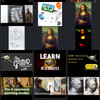
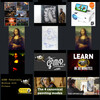
New Revisions

diff --git a/westland-warrior-the-artist/cache/print.html b/westland-warrior-the-artist/cache/print.html
@@ -1,3 +1,6 @@
+<div class="section yt avoid-break-inside" style="padding-bottom: 2rem;">
+  <span>Drew Struzan - Tracing<sup>[1]</sup></span>
+</div>
 <div class="section avoid-break-inside" style="padding-bottom: 2rem;">
   <header>
     <h2>Quote by Frida Kahlo</h2>
@@ -5,7 +8,7 @@
   <blockquote>
     <p>I never paint dreams or nightmares. I paint my own reality.</p>
     <footer>
-      <cite title="Frida Kahlo"><span>Frida Kahlo<sup>[1]</sup></span></cite>
+      <cite title="Frida Kahlo"><span>Frida Kahlo<sup>[2]</sup></span></cite>
     </footer>
   </blockquote>
 </div>
@@ -17,7 +20,7 @@
   <div class="paragraph">Anybody can trace a printout of something they like with tracing paper.<br>What many don't understand is that after tracing, you need to black out the<br>opposite side of your trace to create a home made, Transfer Paper.</div>
 </div>
 <div class="section yt avoid-break-inside" style="padding-bottom: 2rem;">
-  <span>How to Transfer an Image Using Tracing Paper<sup>[2]</sup></span>
+  <span>How to Transfer an Image Using Tracing Paper<sup>[3]</sup></span>
 </div>
 <div class="section avoid-break-inside" style="padding-bottom: 2rem;">
   <header>
@@ -36,10 +39,10 @@
   <div class="paragraph">By blacking out the back of your trace you create Graphite Paper.</div>
   <div class="paragraph">You can skip this step by buying pre-made Graphite Paper. (Pre-made<br>Graphite Paper is a <strong>lot</strong> darker and sharper. If you trace something that<br>has a lot of small details, you should use Graphite Paper.)</div>
   <div class="paragraph">Now you will place Graphite Paper over your Drawing paper, and then put<br>your trace on top, and then go over it with a pencil.</div>
-  <div class="paragraph"><span>Graphite Paper on Amazon<sup>[3]</sup></span>.</div>
+  <div class="paragraph"><span>Graphite Paper on Amazon<sup>[4]</sup></span>.</div>
 </div>
 <div class="section yt avoid-break-inside" style="padding-bottom: 2rem;">
-  <span>Getting Started: Three Ways to Transfer an Image to Watercolor Paper<sup>[4]</sup></span>
+  <span>Getting Started: Three Ways to Transfer an Image to Watercolor Paper<sup>[5]</sup></span>
 </div>
 <div class="section avoid-break-inside" style="padding-bottom: 2rem;">
   <header>
@@ -49,11 +52,11 @@
     <img src="/image/lightbox.jpg" alt="Light Box" style="width: 50%;">
   </figure>
   <div class="paragraph">Lightbox will help you with tracing and creation of new designs.</div>
-  <div class="paragraph">A light box is an interesting addition to the process of tracing, it does<br>need batteries, or a USB port. When buying an inexpensive light box ($25),<br>you might want to consider getting a tiny battery powered <span>projector<sup>[5]</sup></span><br>($75) as well.</div>
-  <div class="paragraph"><span>Light Boxes Paper on Amazon<sup>[6]</sup></span>.</div>
+  <div class="paragraph">A light box is an interesting addition to the process of tracing, it does<br>need batteries, or a USB port. When buying an inexpensive light box ($25),<br>you might want to consider getting a tiny battery powered <span>projector<sup>[6]</sup></span><br>($75) as well.</div>
+  <div class="paragraph"><span>Light Boxes Paper on Amazon<sup>[7]</sup></span>.</div>
 </div>
 <div class="section yt avoid-break-inside" style="padding-bottom: 2rem;">
-  <span>How to trace a picture.<sup>[7]</sup></span>
+  <span>How to trace a picture.<sup>[8]</sup></span>
 </div>
 <div class="section avoid-break-inside" style="padding-bottom: 2rem;">
   <header>
@@ -63,10 +66,10 @@
     <img src="/image/projector.jpg" alt="Digital Projector" style="width: 50%;">
   </figure>
   <div class="paragraph">Digital projectors ($100 - $400) are the fastest way to create murals and<br>paintings.</div>
-  <div class="paragraph"><span>Digital Projectors on Amazon<sup>[8]</sup></span>.</div>
+  <div class="paragraph"><span>Digital Projectors on Amazon<sup>[9]</sup></span>.</div>
 </div>
 <div class="section yt avoid-break-inside" style="padding-bottom: 2rem;">
-  <span>Home Wall Painting Using projector - DIY<sup>[9]</sup></span>
+  <span>Home Wall Painting Using projector - DIY<sup>[10]</sup></span>
 </div>
 <div class="section avoid-break-inside" style="padding-bottom: 2rem;">
   <header>
@@ -76,7 +79,7 @@
     <img src="/image/projector-phone.jpg" alt="Digital Projector" style="width: 50%;">
   </figure>
   <div class="paragraph">You can take a selfie, connect your phone to the projector, and begin<br>painting.</div>
-  <div class="paragraph">Even better you can connect your Raspberry PI, or Laptop and use a program<br>like <span>GIMP<sup>[10]</sup></span> where you can manipulate your source material to reveal<br>edges, colors, or adjust contrast while painting to reveal the brightest<br>parts of your source material.</div>
+  <div class="paragraph">Even better you can connect your Raspberry PI, or Laptop and use a program<br>like <span>GIMP<sup>[11]</sup></span> where you can manipulate your source material to reveal<br>edges, colors, or adjust contrast while painting to reveal the brightest<br>parts of your source material.</div>
   <div class="paragraph">Tip: Consider putting registration marks in your image and on your canvas,<br>it is easier to resume your work after you bump the projector or call it a<br>night.</div>
   <div class="paragraph">Idea: Record your painting progress and upload a sped up movie to YouTube.</div>
 </div>
@@ -87,7 +90,7 @@
   <figure>
     <img src="/image/mona1.jpg" alt="Mona Lisa" style="width: 50%;">
   </figure>
-  <div class="paragraph">Using the Mona Lisa to show what you can get by connecting your projector<br>to your laptop, and using a program like <span>GIMP<sup>[11]</sup></span>.</div>
+  <div class="paragraph">Using the Mona Lisa to show what you can get by connecting your projector<br>to your laptop, and using a program like <span>GIMP<sup>[12]</sup></span>.</div>
 </div>
 <div class="section avoid-break-inside" style="padding-bottom: 2rem;">
   <header>
@@ -117,25 +120,25 @@
   <div class="paragraph">Reveal the brightest parts (highlights) in Mona Lisa.</div>
 </div>
 <div class="section yt avoid-break-inside" style="padding-bottom: 2rem;">
-  <span>How to use GIMP for beginners tutorial<sup>[12]</sup></span>
+  <span>How to use GIMP for beginners tutorial<sup>[13]</sup></span>
 </div>
 <div class="section yt avoid-break-inside" style="padding-bottom: 2rem;">
-  <span>Learn GIMP in 30 minutes, Complete Tutorial for Beginners<sup>[13]</sup></span>
+  <span>Learn GIMP in 30 minutes, Complete Tutorial for Beginners<sup>[14]</sup></span>
 </div>
 <div class="section yt avoid-break-inside" style="padding-bottom: 2rem;">
-  <span>Working With Filters - GIMP Tutorials<sup>[14]</sup></span>
+  <span>Working With Filters - GIMP Tutorials<sup>[15]</sup></span>
 </div>
 <div class="section yt avoid-break-inside" style="padding-bottom: 2rem;">
-  <span>Sfumato, Unione, Chiaroscuro, Cangiante<sup>[15]</sup></span>
+  <span>Sfumato, Unione, Chiaroscuro, Cangiante<sup>[16]</sup></span>
 </div>
 <div class="section yt avoid-break-inside" style="padding-bottom: 2rem;">
-  <span>Painting the Portrait: The Grisaille Method in Oil Part 1/2<sup>[16]</sup></span>
+  <span>Painting the Portrait: The Grisaille Method in Oil Part 1/2<sup>[17]</sup></span>
 </div>
 <div class="section yt avoid-break-inside" style="padding-bottom: 2rem;">
-  <span>Painting the Portrait: The Grisaille Method in Oil Part 2/2<sup>[17]</sup></span>
+  <span>Painting the Portrait: The Grisaille Method in Oil Part 2/2<sup>[18]</sup></span>
 </div>
 <div class="section yt avoid-break-inside" style="padding-bottom: 2rem;">
-  <span>Grisaille Method with Jon deMartin<sup>[18]</sup></span>
+  <span>Grisaille Method with Jon deMartin<sup>[19]</sup></span>
 </div>
 <div class="section avoid-break-inside" style="padding-bottom: 2rem;">
   <header>
@@ -144,11 +147,11 @@
   <figure>
     <img src="/image/bri.jpg" alt="Brianna Schretlen and her Fur Kids" style="width: 50%;">
   </figure>
-  <div class="paragraph">"I'm a professional graphic designer and illustrator with a soft spot for<br>fur kids. I've always loved painting and drawing animals. Our pets are like<br>family, and I truly enjoy working on tributes to these silly, lovable,<br>trusting and loyal creatures. In addition to Bri Pet Portraits, I am also<br>on Etsy under the shop Bri Baby Art - a shop featuring custom artworks for<br>nurseries and kids room decor." (from <span>BriPetPortraits on Etsy<sup>[19]</sup></span>)</div>
+  <div class="paragraph">"I'm a professional graphic designer and illustrator with a soft spot for<br>fur kids. I've always loved painting and drawing animals. Our pets are like<br>family, and I truly enjoy working on tributes to these silly, lovable,<br>trusting and loyal creatures. In addition to Bri Pet Portraits, I am also<br>on Etsy under the shop Bri Baby Art - a shop featuring custom artworks for<br>nurseries and kids room decor." (from <span>BriPetPortraits on Etsy<sup>[20]</sup></span>)</div>
   <div class="paragraph">Custom Pet Portraits. Online business where people upload an image, and you<br>create a large canvas painting, or drawing. It looks like the price is<br>about $50 per portrait. Throw in a bonus, record a time lapse video of the<br>painting for advertising, portfolio, and internet points.</div>
 </div>
 <div class="section yt avoid-break-inside" style="padding-bottom: 2rem;">
-  <span>Pet portrait time-lapse.<sup>[20]</sup></span>
+  <span>Pet portrait time-lapse.<sup>[21]</sup></span>
 </div>
 <div class="section avoid-break-inside" style="padding-bottom: 2rem;">
   <header>
@@ -157,7 +160,7 @@
   <blockquote>
     <p>Creativity takes courage.</p>
     <footer>
-      <cite title="Henri Matisse"><span>Henri Matisse<sup>[21]</sup></span></cite>
+      <cite title="Henri Matisse"><span>Henri Matisse<sup>[22]</sup></span></cite>
     </footer>
   </blockquote>
 </div>
@@ -165,41 +168,42 @@
   <header>
     <h2>Please, never draw alone.</h2>
   </header>
-  <div class="paragraph">If you are going to draw with pencils make sure to use blending stumps and<br>smudge the graphite to give it a photo-realistic look. Get an <span>artboard<sup>[22]</sup></span>, Drawing Paper (not Sketching Paper), <span>tin of pencils<sup>[23]</sup></span>,<br>battery powered eraser and eraser shield, and head for the <span>DIA<sup>[24]</sup></span>, or a<br>Museum, or even a Coffee Shop.</div>
+  <div class="paragraph">If you are going to draw with pencils make sure to use blending stumps and<br>smudge the graphite to give it a photo-realistic look. Get an <span>artboard<sup>[23]</sup></span>, Drawing Paper (not Sketching Paper), <span>tin of pencils<sup>[24]</sup></span>,<br>battery powered eraser and eraser shield, and head for the <span>DIA<sup>[25]</sup></span>, or a<br>Museum, or even a Coffee Shop.</div>
 </div>
 <div class="section yt avoid-break-inside" style="padding-bottom: 2rem;">
-  <span>Blending Stumps for Beginners<sup>[25]</sup></span>
+  <span>Blending Stumps for Beginners<sup>[26]</sup></span>
 </div>
 <div class="section yt avoid-break-inside" style="padding-bottom: 2rem;">
-  <span>What's an Eraser Shield?<sup>[26]</sup></span>
+  <span>What's an Eraser Shield?<sup>[27]</sup></span>
 </div>
 <div class="break-after">&nbsp;</div>
 <div>
   <div class="section" style="padding-bottom: 1rem;">References</div>
-  <div>[1]: https://en.wikipedia.org/wiki/Frida_Kahlo</div>
-  <div>[2]: https://www.youtube.com/watch?v=JW5PYVbc6ho</div>
-  <div>[3]: https://www.amazon.com/graphite-paper/s?k=graphite+paper</div>
-  <div>[4]: https://www.youtube.com/watch?v=fN-VtUBC7Ys</div>
-  <div>[5]: https://www.amazon.com/s?k=Mini+Projector&ref=nb_sb_noss_2</div>
-  <div>[6]: https://www.amazon.com/s?k=Light+Box+Tracing&ref=nb_sb_noss_2</div>
-  <div>[7]: https://www.youtube.com/watch?v=cQGeOMCGh0U</div>
-  <div>[8]: https://www.amazon.com/Digital-Projectors/s?k=Digital+Projectors</div>
-  <div>[9]: https://www.youtube.com/watch?v=iGDfa4T9yTE</div>
-  <div>[10]: https://www.gimp.org/</div>
+  <div>[1]: https://www.youtube.com/watch?v=0fEMJp70tGU</div>
+  <div>[2]: https://en.wikipedia.org/wiki/Frida_Kahlo</div>
+  <div>[3]: https://www.youtube.com/watch?v=JW5PYVbc6ho</div>
+  <div>[4]: https://www.amazon.com/graphite-paper/s?k=graphite+paper</div>
+  <div>[5]: https://www.youtube.com/watch?v=fN-VtUBC7Ys</div>
+  <div>[6]: https://www.amazon.com/s?k=Mini+Projector&ref=nb_sb_noss_2</div>
+  <div>[7]: https://www.amazon.com/s?k=Light+Box+Tracing&ref=nb_sb_noss_2</div>
+  <div>[8]: https://www.youtube.com/watch?v=cQGeOMCGh0U</div>
+  <div>[9]: https://www.amazon.com/Digital-Projectors/s?k=Digital+Projectors</div>
+  <div>[10]: https://www.youtube.com/watch?v=iGDfa4T9yTE</div>
   <div>[11]: https://www.gimp.org/</div>
-  <div>[12]: https://www.youtube.com/watch?v=7LXyClky6A8</div>
-  <div>[13]: https://www.youtube.com/watch?v=IeABb8cwdUg</div>
-  <div>[14]: https://www.youtube.com/watch?v=BB6LM9IYcco</div>
-  <div>[15]: https://www.youtube.com/watch?v=Rp4G1pXx-cs</div>
-  <div>[16]: https://www.youtube.com/watch?v=1183SVMyJVI</div>
-  <div>[17]: https://www.youtube.com/watch?v=vN6aZSSGKGs</div>
-  <div>[18]: https://www.youtube.com/watch?v=JPar_nzAEL0</div>
-  <div>[19]: https://www.etsy.com/shop/BriPetPortraits</div>
-  <div>[20]: https://www.youtube.com/watch?v=Aqn363Z1f5A</div>
-  <div>[21]: https://en.wikipedia.org/wiki/Henri_Matisse</div>
-  <div>[22]: https://www.amazon.com/s/ref=nb_sb_noss?url=search-alias%3Darts-crafts&field-keywords=Sketch+Tote+Drawing+</div>
-  <div>[23]: https://www.amazon.com/s/ref=nb_sb_noss?url=search-alias%3Doffice-products&field-keywords=Staedtler+Lumograph+Graphite+Drawing</div>
-  <div>[24]: https://www.dia.org/</div>
-  <div>[25]: https://www.youtube.com/watch?v=zHiaJMf7m9Y</div>
-  <div>[26]: https://www.youtube.com/watch?v=bluffx6sB04</div>
+  <div>[12]: https://www.gimp.org/</div>
+  <div>[13]: https://www.youtube.com/watch?v=7LXyClky6A8</div>
+  <div>[14]: https://www.youtube.com/watch?v=IeABb8cwdUg</div>
+  <div>[15]: https://www.youtube.com/watch?v=BB6LM9IYcco</div>
+  <div>[16]: https://www.youtube.com/watch?v=Rp4G1pXx-cs</div>
+  <div>[17]: https://www.youtube.com/watch?v=1183SVMyJVI</div>
+  <div>[18]: https://www.youtube.com/watch?v=vN6aZSSGKGs</div>
+  <div>[19]: https://www.youtube.com/watch?v=JPar_nzAEL0</div>
+  <div>[20]: https://www.etsy.com/shop/BriPetPortraits</div>
+  <div>[21]: https://www.youtube.com/watch?v=Aqn363Z1f5A</div>
+  <div>[22]: https://en.wikipedia.org/wiki/Henri_Matisse</div>
+  <div>[23]: https://www.amazon.com/s/ref=nb_sb_noss?url=search-alias%3Darts-crafts&field-keywords=Sketch+Tote+Drawing+</div>
+  <div>[24]: https://www.amazon.com/s/ref=nb_sb_noss?url=search-alias%3Doffice-products&field-keywords=Staedtler+Lumograph+Graphite+Drawing</div>
+  <div>[25]: https://www.dia.org/</div>
+  <div>[26]: https://www.youtube.com/watch?v=zHiaJMf7m9Y</div>
+  <div>[27]: https://www.youtube.com/watch?v=bluffx6sB04</div>
 </div>

diff --git a/westland-warrior-the-artist/cache/bootstrap.html b/westland-warrior-the-artist/cache/bootstrap.html
@@ -1,4 +1,11 @@
 <div class="card card-section bg-dark text-warning shadow">
+  <div class="card-header">Drew Struzan - Tracing</div>
+  <a href="https://www.youtube.com/watch?v=0fEMJp70tGU" title="Drew Struzan - Tracing" alt="Drew Struzan - Tracing"><img src="/image/yid-0fEMJp70tGU.jpg" alt="Drew Struzan - Tracing" class="card-img"></a>
+  <div class="card-body">
+    <a href="https://www.youtube.com/watch?v=0fEMJp70tGU" title="Drew Struzan - Tracing" class="btn btn-warning">Play Video</a>
+  </div>
+</div>
+<div class="card card-section bg-dark text-warning shadow">
   <div class="card-header">
     Quote by Frida Kahlo
   </div>

diff --git a/westland-warrior-the-artist/cache/html.html b/westland-warrior-the-artist/cache/html.html
@@ -1,3 +1,15 @@
+<div class="section yt">
+  <header>
+    <h2>Drew Struzan - Tracing</h2>
+  </header>
+  <figure>
+    <a href="https://www.youtube.com/watch?v=0fEMJp70tGU" class="no-tufte-underline" title="Drew Struzan - Tracing">
+      <img src="/image/yid-0fEMJp70tGU.jpg" alt="Drew Struzan - Tracing">
+    </a>
+    <figcaption>Drew Struzan - Tracing</figcaption>
+  </figure>
+  <p><a href="https://www.youtube.com/watch?v=0fEMJp70tGU" title="Drew Struzan - Tracing">Play Video</a></p>
+</div>
 <div class="section">
   <header>
     <h2>Quote by Frida Kahlo</h2>
